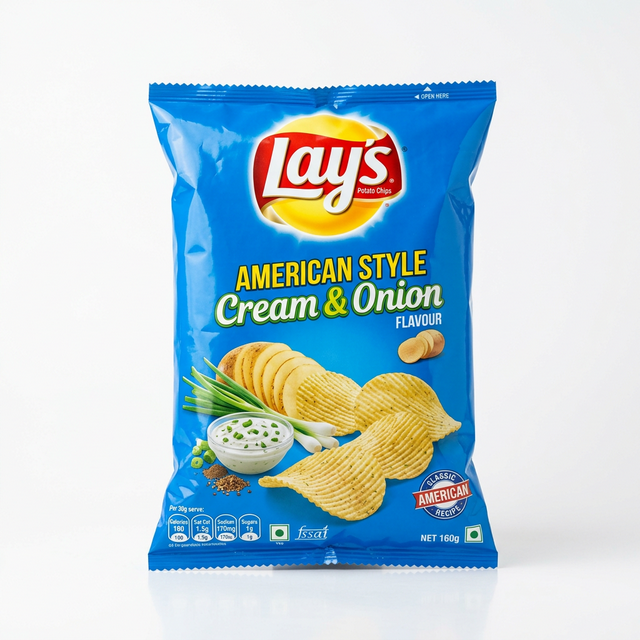
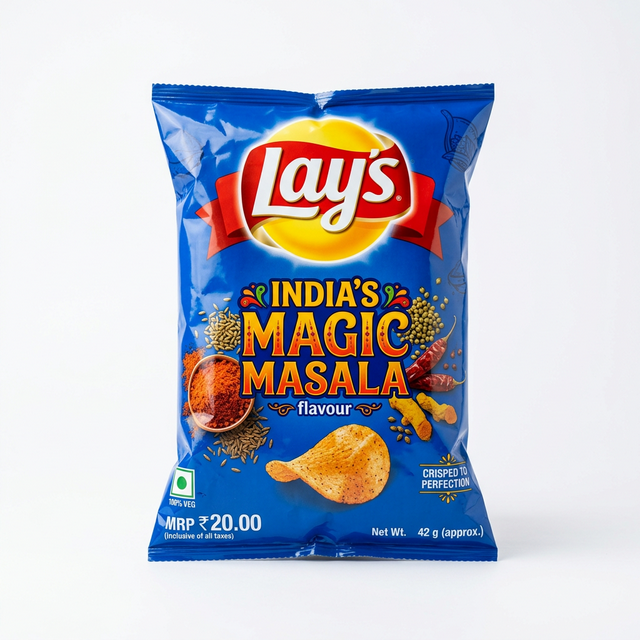
Grocery: Update Lay's to India's Magic Masala with new asset

diff --git a/src/config/groceryItems.ts b/src/config/groceryItems.ts
@@ -79,7 +79,7 @@ export const groceryItems: GroceryItem[] = [
     },
     {
         id: "grocery-lays-blue",
-        name: "Lay's American Style Cream & Onion",
+        name: "Lay's India's Magic Masala",
         quantity: "Standard Pack",
         price: 25,
         image: "/grocery/lays-blue.png",
